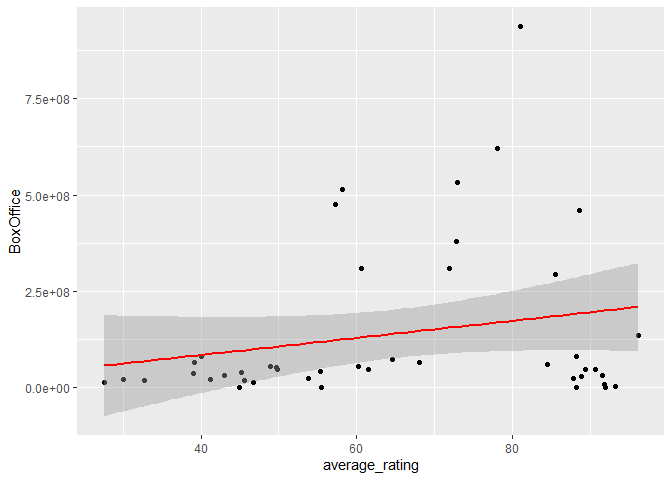
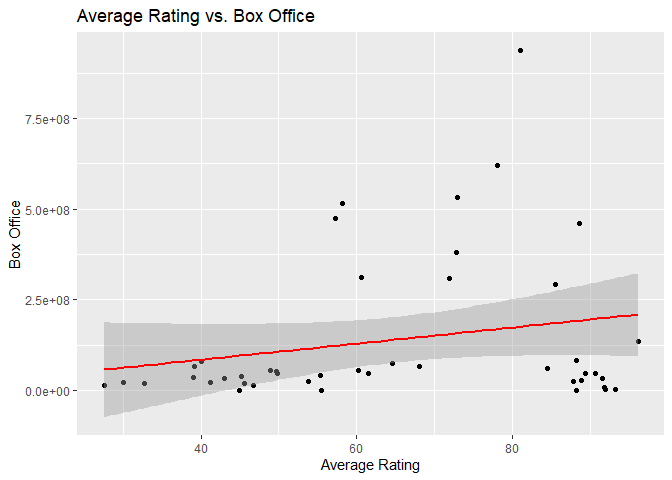
4:28_6_25_2022

diff --git a/README.md b/README.md
@@ -916,7 +916,8 @@ Let’s smooth it out with a Kernel Smoother.
 
 ``` r
 ggplot(B, aes(x = Year)) + geom_histogram(aes(y = ..density..),fill = "lightgrey") +
-  geom_density(adjust = 0.25, size = 1)
+  geom_density(adjust = 0.25, size = 1) +
+  labs(x = "Year", title = "Distribution of Movies by Year", y="Number of Movies")
 ```
 
 ![](README_files/figure-gfm/3_27_6_25_2022-1.png)<!-- -->
@@ -934,12 +935,13 @@ B<-unique(A)
 
 g <- ggplot(B, aes(y = BoxOffice, x = average_rating))
 g + geom_point() +
-geom_smooth(method = lm, col = "Red")
+geom_smooth(method = lm, col = "Red") +
+  labs(x = "Average Rating", title = "Average Rating vs. Box Office", y="Box Office")
 ```
 
-    ## `geom_smooth()` using formula 'y ~ x'
-
 ![](README_files/figure-gfm/4_07_6_25_2022-1.png)<!-- -->
+
+As you can see, as average_rating increases, so does BoxOffice.
 
 The next graph is:
 
